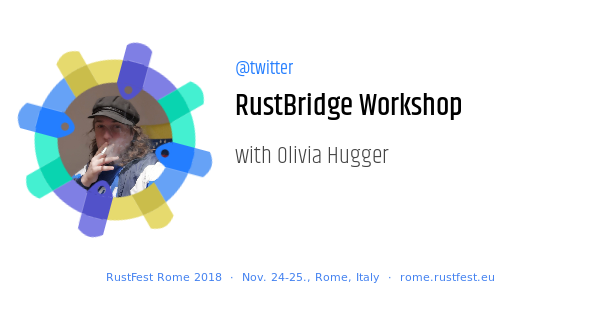
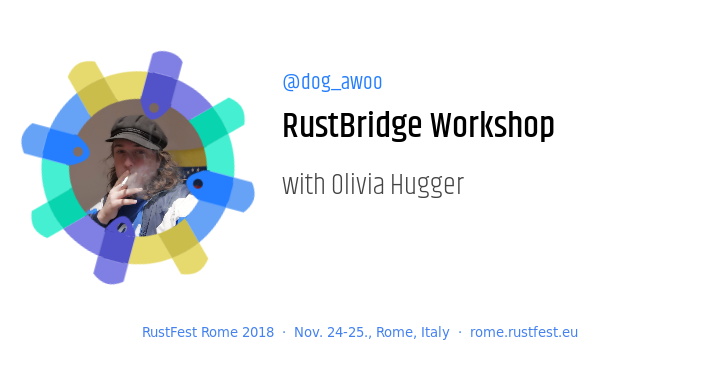
Fix rustbridge twitter card

diff --git a/_layouts/meta-twitter-card-generator.html b/_layouts/meta-twitter-card-generator.html
@@ -184,7 +184,7 @@ var data = [
   ["nick.jpg","name", "@twitter", "title"],
   ["aturon.jpg","Aaron Turon", "@aaron_turon", "Keynote Presentation — TBA"],
   ["irr.png","Increasing Rust's Reach", "#RustReach", "Project Highlight — Ashley Williams · Alan Kavishe · Lee Baillie"],
-  ["olivia.jpg","RustBridge Workshop", "@twitter", "with Olivia Hugger"],
+  ["olivia.jpg","RustBridge Workshop", "@dog_awoo", "with Olivia Hugger"],
 ];
 var card = document.querySelector('.card:last-of-type');
 
